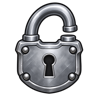
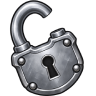
Polish row copy controls and update audio and unlock artwork

diff --git a/src/mastermind-ui.js b/src/mastermind-ui.js
@@ -73,8 +73,8 @@ const COPY = {
     dateLocale: "en-GB",
     unsolvedMessage: "Choose a hero to fill the highlighted row. Select a filled place to change it.",
     solvedMessage: (attempts, party) => `Solved in ${attempts} ${attempts === 1 ? "guess" : "guesses"}. The hidden party was ${party}.`,
-    dragHint: "Hold a portrait, then drag to move or swap it. Drag from an earlier guess to copy a hero, or use Copy row for the whole attempt. Padlocks keep heroes in place after checking, clearing or copying. Unlock above a slot to edit it. Unlimited guesses.",
-    copyRow: 'Copy row', copyRowLabel: n => `Copy guess ${n}; keep locked heroes`,
+    dragHint: "Hold a portrait, then drag to move or swap it. Drag from an earlier guess to copy a hero, or use Copy for the whole attempt. Padlocks keep heroes in place after checking, clearing or copying. Unlock above a slot to edit it. Unlimited guesses.",
+    copyRow: 'Copy', copyRowLabel: n => `Copy guess ${n}; keep locked heroes`,
     lockPlace: (n, hero) => `Lock ${hero} in place ${n} for later attempts`,
     unlockPlace: (n, hero) => `Unlock ${hero} in place ${n}`,
     emptyLock: n => `Place a hero in slot ${n} before locking it`,
@@ -144,8 +144,8 @@ const COPY = {
     dateLocale: "pl-PL",
     unsolvedMessage: "Wybierz klasę, aby wypełnić podświetlony wiersz. Naciśnij zajęte miejsce, aby je zmienić.",
     solvedMessage: (attempts, party) => `Rozszyfrowano w ${attempts} ${attempts === 1 ? "próbie" : "próbach"}. Ukryta drużyna: ${party}.`,
-    dragHint: "Przytrzymaj portret i przeciągnij, aby przenieść lub zamienić bohaterów. Kopiuj wiersz odtwarza całą próbę, zachowując zablokowanych bohaterów. Kłódka zachowuje bohatera po sprawdzeniu i czyszczeniu. Odblokuj miejsce, aby je zmienić. Bez limitu prób.",
-    copyRow: 'Kopiuj wiersz', copyRowLabel: n => `Skopiuj próbę ${n}; zachowaj zablokowanych bohaterów`,
+    dragHint: "Przytrzymaj portret i przeciągnij, aby przenieść lub zamienić bohaterów. Kopiuj odtwarza całą próbę, zachowując zablokowanych bohaterów. Kłódka zachowuje bohatera po sprawdzeniu i czyszczeniu. Odblokuj miejsce, aby je zmienić. Bez limitu prób.",
+    copyRow: 'Kopiuj', copyRowLabel: n => `Skopiuj próbę ${n}; zachowaj zablokowanych bohaterów`,
     lockPlace: (n, hero) => `Zablokuj: ${hero}, na miejscu ${n} w kolejnych próbach`,
     unlockPlace: (n, hero) => `Odblokuj: ${hero}, na miejscu ${n}`,
     emptyLock: n => `Umieść bohatera na miejscu ${n}, aby go zablokować`,
@@ -612,6 +612,12 @@ function renderBoard(challenge, current) {
       const feedback = renderFeedback(result);
       const clone = document.createElement('button'); clone.type = 'button'; clone.className = 'guess-copy-row'; clone.dataset.copyGuess = String(index);
       clone.textContent = copy().copyRow; clone.setAttribute('aria-label', copy().copyRowLabel(index + 1)); clone.disabled = locked;
+      clone.title = copy().copyRowLabel(index + 1);
+      const copyIcon = document.createElementNS('http://www.w3.org/2000/svg', 'svg');
+      copyIcon.setAttribute('viewBox', '0 0 20 20'); copyIcon.setAttribute('aria-hidden', 'true'); copyIcon.setAttribute('focusable', 'false');
+      const copyShape = document.createElementNS('http://www.w3.org/2000/svg', 'path');
+      copyShape.setAttribute('d', 'M6 6V3h11v11h-3M3 6h11v11H3Z');
+      copyIcon.append(copyShape); clone.prepend(copyIcon);
       clone.addEventListener('click', () => copyGuess(index)); feedback.append(clone);
       row.append(feedback);
     } else if (index === current.guesses.length && !locked) {

diff --git a/mastermind.css b/mastermind.css
@@ -714,8 +714,9 @@ button.guess-tile[aria-current="true"] { border-color: var(--accent-light); box-
 .slot-lock-button:disabled img { opacity: .4; }
 .slot-lock-button img:not([hidden]) + .lock-fallback { display: none; }
 .guess-tile[data-locked="true"]:disabled { opacity: 1; cursor: default; }
-.guess-copy-row { grid-column: 1 / -1; min-height: 44px; max-width: 100%; width: 100%; padding: 6px 4px; border: 1px solid var(--line); border-radius: 2px; color: var(--text); background: var(--panel-raised); font: 600 .72rem/1.4 "DM Sans", sans-serif; cursor: pointer; }
-.guess-copy-row:hover:not(:disabled) { border-color: var(--accent); background: var(--surface-hover); }
+.guess-copy-row { grid-column: 1 / -1; justify-self: end; display: inline-flex; align-items: center; justify-content: center; gap: 6px; min-height: 44px; max-width: 100%; padding: 6px 8px; border: 1px solid transparent; border-radius: 2px; color: var(--muted); background: transparent; font: 500 .7rem/1.4 "DM Sans", sans-serif; cursor: pointer; }
+.guess-copy-row svg { flex: none; width: 15px; height: 15px; fill: none; stroke: currentColor; stroke-width: 1.4; stroke-linejoin: round; pointer-events: none; }
+.guess-copy-row:hover:not(:disabled), .guess-copy-row:focus-visible { color: var(--text); background: var(--surface-hover); }
 .guess-history .tile-position { inset: 3px auto auto 3px; min-width: 13px; min-height: 14px; padding: 1px 2px; font-size: .55rem; }
 .tile-remove { z-index: 2; top: 3px; right: 4px; font-size: .85rem; }
 .board-footer { padding-top: 18px; }
@@ -931,7 +932,7 @@ button.guess-tile[aria-current="true"] { border-color: var(--accent-light); box-
   .guess-row { padding-block: 10px; }
   .row-feedback { gap: 16px; padding-top: 8px; }
   .guess-history .row-lineup { max-width: none; }
-  .guess-history .row-feedback { width: auto; gap: 16px; }
+  .guess-history .row-feedback { width: auto; display: flex; flex-wrap: wrap; align-items: center; justify-content: flex-end; gap: 4px 16px; }
   .tile-position, .story-position { inset: 3px auto auto 3px; min-width: 13px; min-height: 14px; padding: 1px 2px; font-size: .6rem; }
   .board-footer { padding-top: 12px; }
   .board-footer .submit-button { min-width: 170px; }

diff --git a/README.md b/README.md
@@ -25,14 +25,14 @@ The browser suite starts a preview server if needed and exercises existing gamep
 
 ## Visual identity
 
-The guild board uses walnut brown, warm parchment, antique-gold accents, a compact paper commission and the existing colourful portraits in bevelled square frames. Generated warm-grey stone adds a subtle seamless repeating background across Home, Quests, tutorial and Story; paper grain appears on commissions, scene clues and the Daily invitation. A subtle repeating walnut grain sits beneath brown Home, Daily, Story and dialog panels, tinted to preserve the existing palette and reading contrast. Its 512px JPEG and exact built-in imagegen prompt are in `assets/textures/dark-walnut-v1.{jpg,json}`, with the original in `art-source/textures/`. CSS luminosity blending and warm tints keep the textures within the walnut/parchment palette. Optimized 512px JPEG tiles keep downloads small, with originals and exact prompts preserved in `art-source/textures/` and `assets/textures/GENERATED_TEXTURES.json`. Plain colours remain the fallback. A shared star-and-three-stones guild crest appears on wax seals and engraved heading accents. Full-width blue ribbons with roomy padding, pale-grey lettering and a beaded lozenge trim mark the main Home, Quests and chapter-selection headings; campaign metadata stays quiet above them. Prelude and later chapters reuse the same `story-journal` CSS: one ribbon on the current scene/step title, quiet progress and back links, readable paragraphs, plain section headings and parchment clue panels with dark ink. The daily area is called Quests (Zadania); light-brown difficulty buttons use a brighter selected face, a dark-brown selection edge and a gold focus outline; primary actions use gold; supporting navigation and chapter choices use walnut surfaces. Body text uses warm off-white, metadata uses muted neutral tones, and success text stays light grey. Disabled Check controls retain readable text on a muted brown face. Language and clear controls have at least 44px touch targets; focus on parchment uses a dark outline. Destructive Settings actions use a restrained burgundy treatment. The original vector ornaments are in `assets/decor/`, with all labels kept as live text. Home pairs a prominent Daily invitation with a smaller Story card, using distinct generated campaign emblems: four formation cards and a cursed brass bell. Transparent runtime WebPs live in `assets/campaigns/`; originals and exact prompts are preserved in `art-source/campaigns/` and `assets/campaigns/GENERATED_EMBLEMS.json`. Daily opens with a prominent gold button above a quiet title and short description; its faint formation emblem sits behind the card content with slight decorative overflow. Story also opens with its Play Story button, followed by campaign metadata and a compact bell flourish behind The Cursed Bell title ribbon. The top-aligned 3:2 desktop cards stack Daily first on phones, with no reserved large artwork stage. They replace the Home portrait pairs; gameplay portraits remain unchanged. On phones the labelled hero selector stays above the stationary active formation; previous attempts form a compact ledger below it, with a Copy row action for each attempt. In Daily puzzles, steel padlocks overlapping the top edge of active slots retain chosen heroes through checks, clearing and row copies; locked portraits use a steel-gray frame and stone-gray backing, and locks save per day/difficulty and can be toggled off to edit. These are player hypotheses, never confirmed feedback. Story/Prelude retain their own scene boards. Formation rules and Controls expand through native EN/PL disclosures, including keyboard activation. Frames own image dimensions; missing gameplay artwork reveals a localized class token. Feedback uses a green square, gold diamond and grey ring, with numeric totals and accessible descriptions. Placement and result-stamp motion runs only on actions and respects reduced motion. The focused visual check is `node scripts/check-guild-design.mjs` (also included in the browser suite): Chromium/WebKit across desktop, tablet, phones and landscape, Polish at 200% text, larger 64px phone portraits with only a short scroll to Check at 390×844, disclosures, keyboard focus, action-only motion and solving with failed portrait requests. Screenshots and measurements are written to `output/tabletop-after/`; local before captures are in `output/tabletop-before/`.
+The guild board uses walnut brown, warm parchment, antique-gold accents, a compact paper commission and the existing colourful portraits in bevelled square frames. Generated warm-grey stone adds a subtle seamless repeating background across Home, Quests, tutorial and Story; paper grain appears on commissions, scene clues and the Daily invitation. A subtle repeating walnut grain sits beneath brown Home, Daily, Story and dialog panels, tinted to preserve the existing palette and reading contrast. Its 512px JPEG and exact built-in imagegen prompt are in `assets/textures/dark-walnut-v1.{jpg,json}`, with the original in `art-source/textures/`. CSS luminosity blending and warm tints keep the textures within the walnut/parchment palette. Optimized 512px JPEG tiles keep downloads small, with originals and exact prompts preserved in `art-source/textures/` and `assets/textures/GENERATED_TEXTURES.json`. Plain colours remain the fallback. A shared star-and-three-stones guild crest appears on wax seals and engraved heading accents. Full-width blue ribbons with roomy padding, pale-grey lettering and a beaded lozenge trim mark the main Home, Quests and chapter-selection headings; campaign metadata stays quiet above them. Prelude and later chapters reuse the same `story-journal` CSS: one ribbon on the current scene/step title, quiet progress and back links, readable paragraphs, plain section headings and parchment clue panels with dark ink. The daily area is called Quests (Zadania); light-brown difficulty buttons use a brighter selected face, a dark-brown selection edge and a gold focus outline; primary actions use gold; supporting navigation and chapter choices use walnut surfaces. Body text uses warm off-white, metadata uses muted neutral tones, and success text stays light grey. Disabled Check controls retain readable text on a muted brown face. Language and clear controls have at least 44px touch targets; focus on parchment uses a dark outline. Destructive Settings actions use a restrained burgundy treatment. The original vector ornaments are in `assets/decor/`, with all labels kept as live text. Home pairs a prominent Daily invitation with a smaller Story card, using distinct generated campaign emblems: four formation cards and a cursed brass bell. Transparent runtime WebPs live in `assets/campaigns/`; originals and exact prompts are preserved in `art-source/campaigns/` and `assets/campaigns/GENERATED_EMBLEMS.json`. Daily opens with a prominent gold button above a quiet title and short description; its faint formation emblem sits behind the card content with slight decorative overflow. Story also opens with its Play Story button, followed by campaign metadata and a compact bell flourish behind The Cursed Bell title ribbon. The top-aligned 3:2 desktop cards stack Daily first on phones, with no reserved large artwork stage. They replace the Home portrait pairs; gameplay portraits remain unchanged. On phones the labelled hero selector stays above the stationary active formation; previous attempts form a compact ledger below it, with a quiet Copy icon/text action for each attempt. In Daily puzzles, steel padlocks overlapping the top edge of active slots retain chosen heroes through checks, clearing and row copies; locked portraits use a steel-gray frame and stone-gray backing, and locks save per day/difficulty and can be toggled off to edit. These are player hypotheses, never confirmed feedback. Story/Prelude retain their own scene boards. Formation rules and Controls expand through native EN/PL disclosures, including keyboard activation. Frames own image dimensions; missing gameplay artwork reveals a localized class token. Feedback uses a green square, gold diamond and grey ring, with numeric totals and accessible descriptions. Placement and result-stamp motion runs only on actions and respects reduced motion. The focused visual check is `node scripts/check-guild-design.mjs` (also included in the browser suite): Chromium/WebKit across desktop, tablet, phones and landscape, Polish at 200% text, larger 64px phone portraits with only a short scroll to Check at 390×844, disclosures, keyboard focus, action-only motion and solving with failed portrait requests. Screenshots and measurements are written to `output/tabletop-after/`; local before captures are in `output/tabletop-before/`.
 
 ## Play and saves
 
 - **First launch:** Home lists Daily Puzzles first and Story second. New players can choose Play tutorial or Skip for now. Skipping briefly points to Story → Prelude and lets the main Story action start Chapter 1. The answer is stored in `heroguesser:onboarding:v1` through localStorage / iOS Preferences. Existing daily/story players bypass the invitation after updating. Story/daily resets preserve the answer; Reset All clears it for the next normal launch. Direct tutorial/daily/chapter links retain their destination.
 - **Prelude:** the three guided tutorial scenes open The Cursed Bell from the Story menu. Begin Story starts here unless the player declined the first-launch tutorial. Finishing offers **Seek today’s riddles** (Easy daily, with all four daily choices available) first, followed by **Venture forth** (continue the saved story chapter). Completion saves independently, including when choosing dailies; unfinished prelude runs start fresh after exit/reload. Replay is always available from the chapter menu.
 - **Story:** The Cursed Bell is one campaign in four chapters, with unlimited attempts and hints. Chapter 1 can also be selected directly to skip the prelude; solving the last scene unlocks the next chapter. Begin/Continue Story follows the prelude and campaign, including pending chapter endings. Existing chapter saves bypass the prelude. Unlocked chapters can be revisited from the chapter menu. Home/reload/background/closure preserve progress. Restart and reset require confirmation. Chapter replay preserves earned unlocks; Reset Story Progress clears prelude completion and chapter saves and locks chapters 2–4 again. Existing valid saves from later chapters retain access. Wrong checks clear the draft and keep history; solving keeps the verified scene fact and drops its attempts.
-- **Daily:** four challenges: Easy (five slots), Medium (six), Hard (seven), and Party Roll (Polish: Drużyna z przypadku; five). Easy/Medium/Hard have party-name count clues; Party Roll independently draws every slot from all seven heroes, with unrestricted repeats and no count clues. Green means correct place; yellow means included elsewhere; grey means absent or excess copy. Feedback is a total for the entire row. Unlimited guesses, date/difficulty-specific local saves and spoiler-free result sharing. Copy any previous row into the current attempt; its copy button preserves locked positions. Use the open/closed steel padlocks on the top edge of filled slots to keep those heroes after checking, clearing or copying. Unlock to edit again. Locks are saved player hypotheses, not confirmed feedback.
+- **Daily:** four challenges: Easy (five slots), Medium (six), Hard (seven), and Party Roll (Polish: Drużyna z przypadku; five). Easy/Medium/Hard have party-name count clues; Party Roll independently draws every slot from all seven heroes, with unrestricted repeats and no count clues. Green means correct place; yellow means included elsewhere; grey means absent or excess copy. Feedback is a total for the entire row. Unlimited guesses, date/difficulty-specific local saves and spoiler-free result sharing. Copy any previous row into the current attempt; its copy action preserves locked positions. Use the open/closed steel padlocks on the top edge of filled slots to keep those heroes after checking, clearing or copying. Unlock to edit again. Locks are saved player hypotheses, not confirmed feedback.
 
 The story learning curve grows from a three-place adjacency puzzle to six-place deductions using ordering, gaps, repeated pieces and exclusions. Free hints teach a next step; solved scenes offer an optional explanation. See [the scene-by-scene progression](release/STORY_PROGRESSION.md). Content edition 2 preserves original chapter-1 saves; older saves in revised chapters 2–4 require a confirmed restart.
 

diff --git a/progress.md b/progress.md
@@ -448,3 +448,9 @@ The following entries describe earlier development; current source and README ta
 
 - User requested a little wood texture beneath brown panels and asked to push afterward. Generated a seamless dark walnut scan with built-in imagegen; preserved original and exact prompt, downscaled runtime to 512px JPEG. Added shared image layers beneath existing live content across brown Home, Daily, Story/Prelude and dialog panels, including the mobile Daily picker. Brown tint/luminosity blending keeps grain subdued. Stone, paper, ribbons and hero/locked portrait materials retain their roles. Verification in progress.
 - Verification complete: six Home navigation/resume/locale/reflow profiles and 14 Chromium/WebKit guild-design profiles pass, covering fallback geometry, disclosures, focus, mobile labels and solving. Four additional desktop/phone Chromium/WebKit profiles check Daily, Home, chapter menu and Settings without overflow or page errors. Inspected these screens and the bundled game-client screenshot/text; walnut grain stays subdued under readable text. Runtime texture is ~64KiB. Web/iOS rebuild/sync, standalone source/web/native graphs (70/70/47) and whitespace checks pass. No required TODOs; committing and pushing at the user's request.
+
+
+## 2026-10-30 — Quiet historical-row copy action
+
+- User found Copy row too prominent and asked for a more elegant treatment. Replaced the filled full-width button with a small native SVG copy glyph and short EN/PL Copy/Kopiuj label on a transparent surface, aligned beside feedback. Retained a 44px high target, descriptive row-specific accessible name, tooltip and keyboard focus; hover/focus adds a gentle surface. Phone feedback and copy share a wrapping inline row to reduce visual bulk. Existing copying, lock protection and solved-state behavior stay the same. Verification in progress.
+- Verification complete: all eight Chromium/WebKit row-tool profiles and five feedback profiles pass, including keyboard, copy/lock protection, save/reload, solving and EN/PL layout. Inspected phone/history and narrow Hard screenshots plus bundled-client capture/state. No clipping, new page errors or behavior regressions. Web/iOS rebuilt and synced; standalone graphs (70/70/47) and whitespace check pass. No required TODOs; changes remain local.
